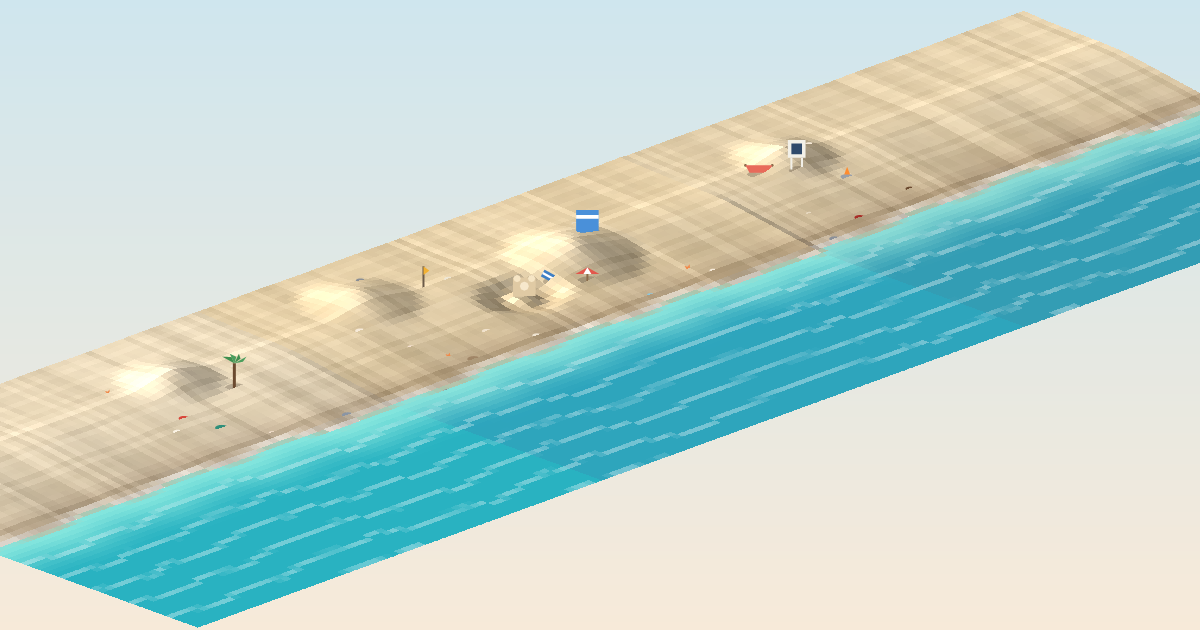
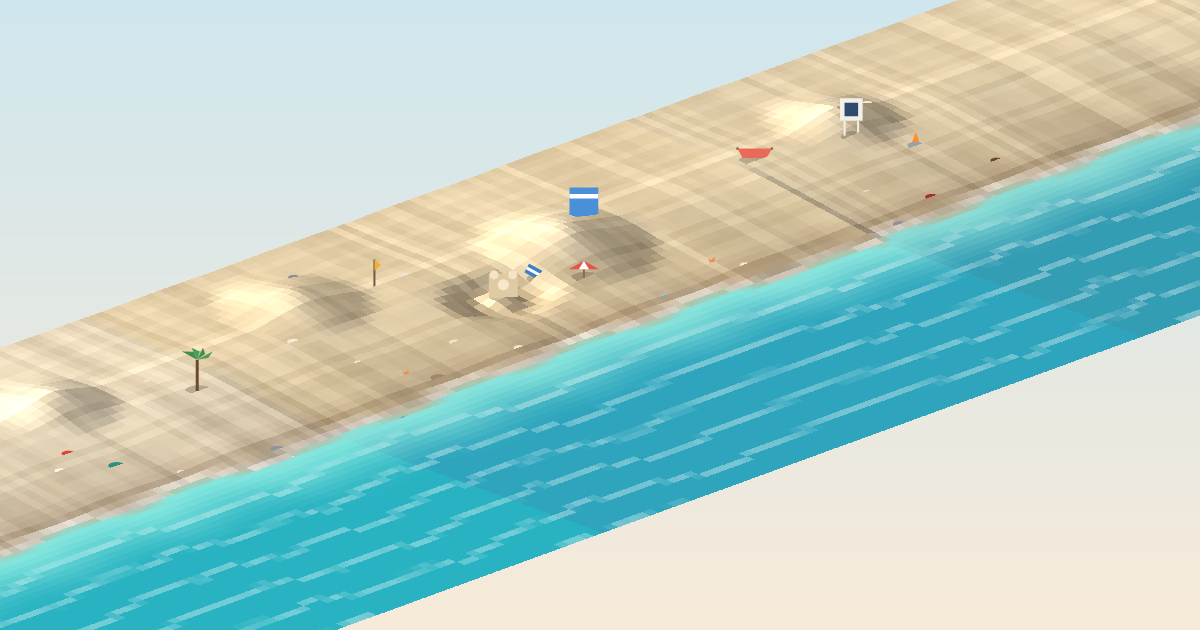
Zoom the 3D share views into the beach being shared
The isometric renders showed a 14 m slice of each neighbour; the shared
beach was only 34% of the frame. Now each neighbour shows just a 4 m
sliver before it crops off, and the shared beach spans 516 px (43% of the
1200 px picture) in both directions. The flat card is untouched.

diff --git a/server/test/beachImage.test.ts b/server/test/beachImage.test.ts
@@ -32,13 +32,13 @@ function moundSand(cx: number, cy: number, height: number, r = 6, nx = 64): Save
 
 const flat: SavedSand = { nx: 64, ny: 64, delta: new Float32Array(64 * 64), things: [] };
 const centerPanel: IsoPanel = { sand: moundSand(32, 48, 1.2), location: 'bondi', linked: false };
-// A mound on the dry sand of each neighbour, inside the slice the frame
-// shows: the left neighbour's first 14 m (local cell 16 = 8 m in) and the
-// right neighbour's 14 m nearest the centre beach (local cell 48 = 24 m in).
+// A mound on the dry sand of each neighbour, inside the sliver the frame
+// shows: the left neighbour's first 4 m (local cell 4 = 2 m in) and the
+// right neighbour's 4 m nearest the centre beach (local cell 60 = 30 m in).
 // The left neighbour sits flush at +32 m, the right one keeps its 1.6 m gap.
-const leftMound: IsoPanel = { sand: moundSand(16, 48, 1.2), location: 'waikiki', linked: true };
+const leftMound: IsoPanel = { sand: moundSand(4, 48, 1.2), location: 'waikiki', linked: true };
 const leftFlat: IsoPanel = { sand: flat, location: 'waikiki', linked: true };
-const rightMound: IsoPanel = { sand: moundSand(48, 48, 1.2), location: 'piha', linked: false };
+const rightMound: IsoPanel = { sand: moundSand(60, 48, 1.2), location: 'piha', linked: false };
 const rightFlat: IsoPanel = { sand: flat, location: 'piha', linked: false };
 
 function px(buf: Uint8Array, x: number, y: number): [number, number, number] {
@@ -91,9 +91,9 @@ describe('renderIsoBeach', () => {
       const withRight = renderIsoBeach(centerPanel, null, rightMound, { width: W, height: H }, dir);
       const flatRight = renderIsoBeach(centerPanel, null, rightFlat, { width: W, height: H }, dir);
       // The frame with one neighbour: centre 0..32, left 32..64 or right -33.6..-1.6.
-      // The mounds sit in the slice the frame shows (left local 8 m, right local 24 m).
-      const [lx] = isoScreenPoint(W, H, dir, 32 + 8, 24, moundH, 0, 64);
-      const [rx] = isoScreenPoint(W, H, dir, -(32 + 1.6) + 24, 24, moundH, -(32 + 1.6), 32);
+      // The mounds sit in the sliver the frame shows (left local 2 m, right local 30 m).
+      const [lx] = isoScreenPoint(W, H, dir, 32 + 2, 24, moundH, 0, 64);
+      const [rx] = isoScreenPoint(W, H, dir, -(32 + 1.6) + 30, 24, moundH, -(32 + 1.6), 32);
       const dl = maxDiff(withLeft, flatLeft);
       const dr = maxDiff(withRight, flatRight);
       expect(dl.d).toBeGreaterThan(30);
@@ -140,12 +140,13 @@ describe('renderIsoBeach', () => {
 
   it('frames the centre beach big: with neighbours it spans a good part of the picture, and the far ends are cropped off', () => {
     // Before the crop the frame fitted the whole 96 m strip and the centre
-    // beach was 286 px wide (24% of the picture); now it is 403 px (34%),
-    // and the far end of a neighbour is off the frame instead of fitted.
+    // beach was 286 px wide (24% of the picture); the 14 m slice made it
+    // 403 px (34%); the 4 m sliver makes it 516 px (43%), and the far end
+    // of a neighbour is off the frame instead of fitted.
     for (const dir of ['ocean', 'land'] as IsoDir[]) {
       const [x0] = isoScreenPoint(W, H, dir, 0, 16, 0, -(32 + 1.6), 64);
       const [x1] = isoScreenPoint(W, H, dir, 32, 16, 0, -(32 + 1.6), 64);
-      expect(Math.abs(x1 - x0)).toBeGreaterThan(W * 0.3);
+      expect(Math.abs(x1 - x0)).toBeGreaterThan(W * 0.4);
       const [fx] = isoScreenPoint(W, H, dir, 64, 16, 0, -(32 + 1.6), 64);
       expect(fx < 0 || fx > W).toBe(true);
     }
@@ -181,8 +182,13 @@ describe('renderIsoBeach', () => {
     const patch: number[] = [];
     let sum = 0;
     let n = 0;
-    for (let wx = -30; wx <= -24; wx += 1)
-      for (let wy = 20; wy <= 28; wy += 1) {
+    // The visible sliver of the Piha neighbour is local 29.6..32 m, so the
+    // patch sits there (world -4..-2), on dry sand in two bands — wy 12..20
+    // and wy 28..31 — clear of the mound at local 30 m / wy 21..27. The
+    // bands together cover about the same area as the old 6x8 m patch, so
+    // the slow grain has room to vary.
+    for (let wx = -4; wx <= -2; wx += 0.5)
+      for (const wy of [12, 13, 14, 15, 16, 17, 18, 19, 20, 28, 29, 30, 31]) {
         const [sx, sy] = isoScreenPoint(W, H, 'ocean', wx, wy, restHeight(wx + 33.6, wy), -(32 + 1.6), 64).map(Math.round);
         if (sx < 0 || sx >= W || sy < 0 || sy >= H) continue;
         const [r, g, b] = px(img, sx, sy);

diff --git a/server/src/beachImage.ts b/server/src/beachImage.ts
@@ -930,8 +930,9 @@ function drawThings(img: Uint8Array, W: number, H: number, things: Thing[], look
 // from the walk; a linked neighbour sits flush, an unlinked one keeps the
 // 1.6 m diorama gap, and where there is no public neighbour the frame ends
 // at the centre beach — no faded filler shore on any side. The frame shows
-// the centre beach plus a slice (14 m) of each neighbour, so the beach is
-// the subject instead of a thin strip in a void.
+// the centre beach plus a sliver (4 m) of each neighbour, so the beach is
+// the subject instead of a thin strip in a void — the neighbours show just
+// enough to read that there are beaches next door before they crop off.
 //
 // Alongshore the picture is mirrored against a literal offshore camera so
 // left and right match the top-down card (facing the sea, left is +x, so
@@ -965,9 +966,9 @@ interface IsoCam {
   /** +1: camera offshore looking landward (sea in front); -1: camera inland looking seaward */
   sgn: 1 | -1;
 }
-/** metres of each neighbour shown either side of the centre beach */
-const ISO_SHOW = 14;
-/** Fit the frame to the centre beach plus a slice of each neighbour (fx0..fx1 are the strip's ends, 0/32 with no neighbours). The beach is the subject — the frame does not fit the whole 96 m strip, which reads as a thin diagonal in a void. A side with no neighbour ends at the centre beach, with no filler shore past it. */
+/** metres of each neighbour shown either side of the centre beach — a sliver, not a slice: the shared beach is the subject */
+const ISO_SHOW = 4;
+/** Fit the frame to the centre beach plus a sliver of each neighbour (fx0..fx1 are the strip's ends, 0/32 with no neighbours). The beach is the subject — the frame does not fit the whole 96 m strip, which reads as a thin diagonal in a void. A side with no neighbour ends at the centre beach, with no filler shore past it. */
 const isoCam = (W: number, H: number, fx0: number, fx1: number, dir: IsoDir): IsoCam => {
   const vx0 = Math.max(fx0, -ISO_SHOW);
   const vx1 = Math.min(fx1, WORLD + ISO_SHOW);
@@ -1094,7 +1095,7 @@ function fillQuad(img: Uint8Array, W: number, H: number, pts: Pt[], r: number, g
  * picture's left. `land` is the view from the land side, looking out toward
  * the sea: the beach in the foreground, the sea far away, and the neighbours
  * mirrored — the walk-left neighbour is on the picture's right. The frame
- * fits the centre beach plus a slice of each neighbour; a side with no
+ * fits the centre beach plus a sliver of each neighbour; a side with no
  * public neighbour ends at the centre beach, with no filler shore past it.
  */
 export function renderIsoBeach(

diff --git a/server/scripts/render-iso-samples.ts b/server/scripts/render-iso-samples.ts
@@ -78,16 +78,16 @@ function centreBeach(): SavedSand {
   return s;
 }
 
-/** the walk-left neighbour (linked, flush): a palm, a towel, a bucket and ball — only its first 14 m show */
+/** the walk-left neighbour (linked, flush): a palm, a towel, a bucket and ball — only its first 4 m show, so the palm and a shell sit in the sliver */
 function leftBeach(): SavedSand {
   const s = blank();
   mound(s, 8, 26, 0.4, 3);
   s.things = [
-    thing('palmtree', 6, 23, 1.1),
+    thing('palmtree', 2, 23, 1.1),
     thing('towel', 10, 20, 1),
     thing('bucket', 11, 22, 0.8, 0),
     thing('beachball', 12.5, 21, 0.7, 0),
-    thing('shell', 4, 25, 0.6, 1),
+    thing('shell', 3, 25, 0.6, 1),
     thing('shell', 8, 18, 0.5, 3),
     thing('rock', 3, 17, 0.9, 2),
     thing('starfish', 12, 27, 0.6, 0),
@@ -95,14 +95,14 @@ function leftBeach(): SavedSand {
   return s;
 }
 
-/** the walk-right neighbour (unlinked, 1.6 m gap): a lifeguard tower and a bonfire — only the 14 m nearest the centre beach show (local x 18..32) */
+/** the walk-right neighbour (unlinked, 1.6 m gap): a lifeguard tower and a bonfire — only the 4 m nearest the centre beach show (local x 28..32), so a shell, a rock and the hammock sit in the sliver */
 function rightBeach(): SavedSand {
   const s = blank();
   mound(s, 25, 26, 0.4, 3);
   s.things = [
     thing('lifeguardtower', 26, 24, 1.1),
     thing('bonfire', 24, 22, 0.9),
-    thing('hammock', 28, 25, 1),
+    thing('hammock', 31, 25, 1),
     thing('coconut', 22, 19, 0.7, 0),
     thing('coral', 27, 18, 0.8, 1),
     thing('shell', 23, 26, 0.6, 0),

diff --git a/server/src/releaseNotes.ts b/server/src/releaseNotes.ts
@@ -27,6 +27,7 @@ export const RELEASE_NOTES: ReleaseNote[] = [
       'Removed the “off the shore” setting for now — saved beaches stay on the shore.',
       'Visit any public beach in 3D and walk the shore without signing in (from beechshore.com or a shared link).',
       'Every beach page on beechshore.com now has Flat / 3D / From the sea buttons on its picture: the 3D views show your beach as an isometric diorama, from the land looking out to sea or from the sea looking in, with the beaches either side.',
+      'The 3D views on a beach page now zoom into the beach being shared, with just a sliver of the beaches either side before they crop off.',
       'The shop no longer squeezes a pack’s description into a word per line when the “Buy with credit” button is showing: the buttons sit on a row of their own under the text.',
       'Linked neighbors now blend edge to edge into one continuous beach — sand, water, and rolling wave fronts flow smoothly across the seam with no gap, and the surf blends seamlessly out into the open sea. Unlinked beaches along the shore keep their space.',
       'Prizes from the claw and vending machines now look the part on your beach: the pink shell is properly pink, the golden sand dollar is shiny gold, and the rest of the week’s set stands out from the free shells and sea glass.',

diff --git a/docs/STATUS.md b/docs/STATUS.md
@@ -369,9 +369,10 @@ accepted the repo's default branch, so the deploy job ran only there.
   scale show with one public beach either side — linked flush, unlinked
   with the 1.6 m gap — and the neighbours mirror between the two views,
   because you are looking from opposite directions. The frame fits the
-  centre beach plus a 14 m slice of each neighbour, so the beach is the
-  subject; a side with no public neighbour shows no shore at all, with no
-  faded filler. Only public beaches ever appear; a non-public neighbour
+  centre beach plus a 4 m sliver of each neighbour, so the beach being
+  shared is the subject (it spans 516 px, 43% of the picture width); a
+  side with no public neighbour shows no shore at all, with no faded
+  filler. Only public beaches ever appear; a non-public neighbour
   renders as untouched shore.
   `og:image` stays the top-down card. Samples: `docs/shore-iso-sample.png`
   (ocean) and `docs/shore-iso-land-sample.png` (land), re-rendered from a

diff --git a/docs/SHORE_SITE.md b/docs/SHORE_SITE.md
@@ -98,8 +98,8 @@ card and the beach-page strip; from the land the neighbours appear on the
 opposite sides, because you are looking from the other direction. One
 public beach shows on each side — linked flush at 32 m, unlinked keeping
 the 1.6 m gap of untouched shore — and the frame fits the centre beach
-plus a 14 m slice of each neighbour, so the beach is the subject instead
-of a thin strip in a void; a side with no public neighbor shows no shore
+plus a 4 m sliver of each neighbour, so the beach being shared is the
+subject instead of a thin strip in a void; a side with no public neighbor shows no shore
 at all, with no faded empty-shore filler. A non-public neighbor never
 appears: the route only ever fetches neighbours through `shoreGraph.walk`
 with `keep=isPublic`, and the cache key carries the neighbours' save
